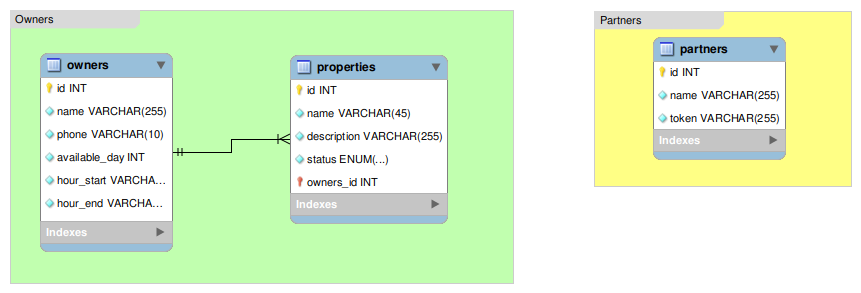
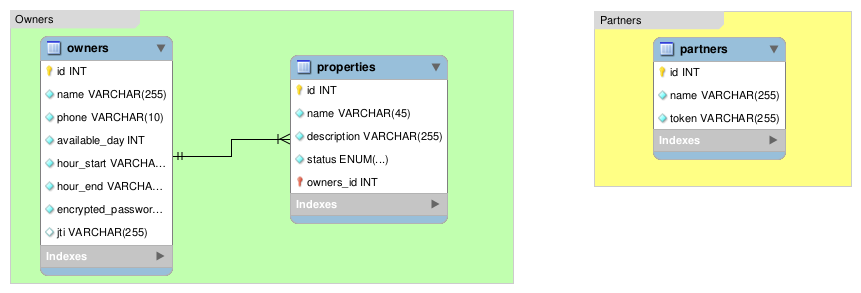
owner migration added and devise configured to authenticate though phone

diff --git a/db/migrate/20210307035009_devise_create_owners.rb b/db/migrate/20210307035009_devise_create_owners.rb
@@ -1,0 +1,51 @@
+# frozen_string_literal: true
+
+class DeviseCreateOwners < ActiveRecord::Migration[6.1]
+  def change
+    create_table :owners do |t|
+      t.string :name, null: false, default: "", length: 255
+      t.integer :available_day, null: false, default: 0
+      t.string :hour_start, null: false, default: "", length:5
+      t.string :hour_end, null: false, default: "", length: 5
+      t.string :jti, null: false
+
+      ## Database authenticatable
+      t.string :phone,              null: false, default: "", length: 10
+      t.string :encrypted_password, null: false, default: ""
+
+      ## Recoverable
+      t.string   :reset_password_token
+      t.datetime :reset_password_sent_at
+
+      ## Rememberable
+      t.datetime :remember_created_at
+
+      ## Trackable
+      # t.integer  :sign_in_count, default: 0, null: false
+      # t.datetime :current_sign_in_at
+      # t.datetime :last_sign_in_at
+      # t.string   :current_sign_in_ip
+      # t.string   :last_sign_in_ip
+
+      ## Confirmable
+      # t.string   :confirmation_token
+      # t.datetime :confirmed_at
+      # t.datetime :confirmation_sent_at
+      # t.string   :unconfirmed_email # Only if using reconfirmable
+
+      ## Lockable
+      # t.integer  :failed_attempts, default: 0, null: false # Only if lock strategy is :failed_attempts
+      # t.string   :unlock_token # Only if unlock strategy is :email or :both
+      # t.datetime :locked_at
+
+
+      t.timestamps null: false
+    end
+
+    add_index :owners, :reset_password_token, unique: true
+    add_index :owners, :jti,                  unique: true
+    add_index :owners, :phone,                unique: true
+    # add_index :owners, :confirmation_token,   unique: true
+    # add_index :owners, :unlock_token,         unique: true
+  end
+end

diff --git a/db/schema.rb b/db/schema.rb
@@ -10,9 +10,27 @@
 #
 # It's strongly recommended that you check this file into your version control system.
 
-ActiveRecord::Schema.define(version: 0) do
+ActiveRecord::Schema.define(version: 2021_03_07_035009) do
 
   # These are extensions that must be enabled in order to support this database
   enable_extension "plpgsql"
+
+  create_table "owners", force: :cascade do |t|
+    t.string "name", default: "", null: false
+    t.integer "available_day", default: 0, null: false
+    t.string "hour_start", default: "", null: false
+    t.string "hour_end", default: "", null: false
+    t.string "jti", null: false
+    t.string "phone", default: "", null: false
+    t.string "encrypted_password", default: "", null: false
+    t.string "reset_password_token"
+    t.datetime "reset_password_sent_at"
+    t.datetime "remember_created_at"
+    t.datetime "created_at", precision: 6, null: false
+    t.datetime "updated_at", precision: 6, null: false
+    t.index ["jti"], name: "index_owners_on_jti", unique: true
+    t.index ["phone"], name: "index_owners_on_phone", unique: true
+    t.index ["reset_password_token"], name: "index_owners_on_reset_password_token", unique: true
+  end
 
 end

diff --git a/config/initializers/devise.rb b/config/initializers/devise.rb
@@ -46,7 +46,7 @@ Devise.setup do |config|
   # session. If you need permissions, you should implement that in a before filter.
   # You can also supply a hash where the value is a boolean determining whether
   # or not authentication should be aborted when the value is not present.
-  # config.authentication_keys = [:email]
+  config.authentication_keys = [:phone]
 
   # Configure parameters from the request object used for authentication. Each entry
   # given should be a request method and it will automatically be passed to the

diff --git a/app/models/owner.rb b/app/models/owner.rb
@@ -1,0 +1,6 @@
+class Owner < ApplicationRecord
+  # Include default devise modules. Others available are:
+  # :confirmable, :lockable, :timeoutable, :trackable and :omniauthable
+  devise :database_authenticatable, :registerable,
+         :recoverable, :rememberable, :validatable
+end

diff --git a/config/routes.rb b/config/routes.rb
@@ -1,3 +1,4 @@
 Rails.application.routes.draw do
+  devise_for :owners
   # For details on the DSL available within this file, see https://guides.rubyonrails.org/routing.html
 end

diff --git a/test/models/owner_test.rb b/test/models/owner_test.rb
@@ -1,0 +1,7 @@
+require "test_helper"
+
+class OwnerTest < ActiveSupport::TestCase
+  # test "the truth" do
+  #   assert true
+  # end
+end
